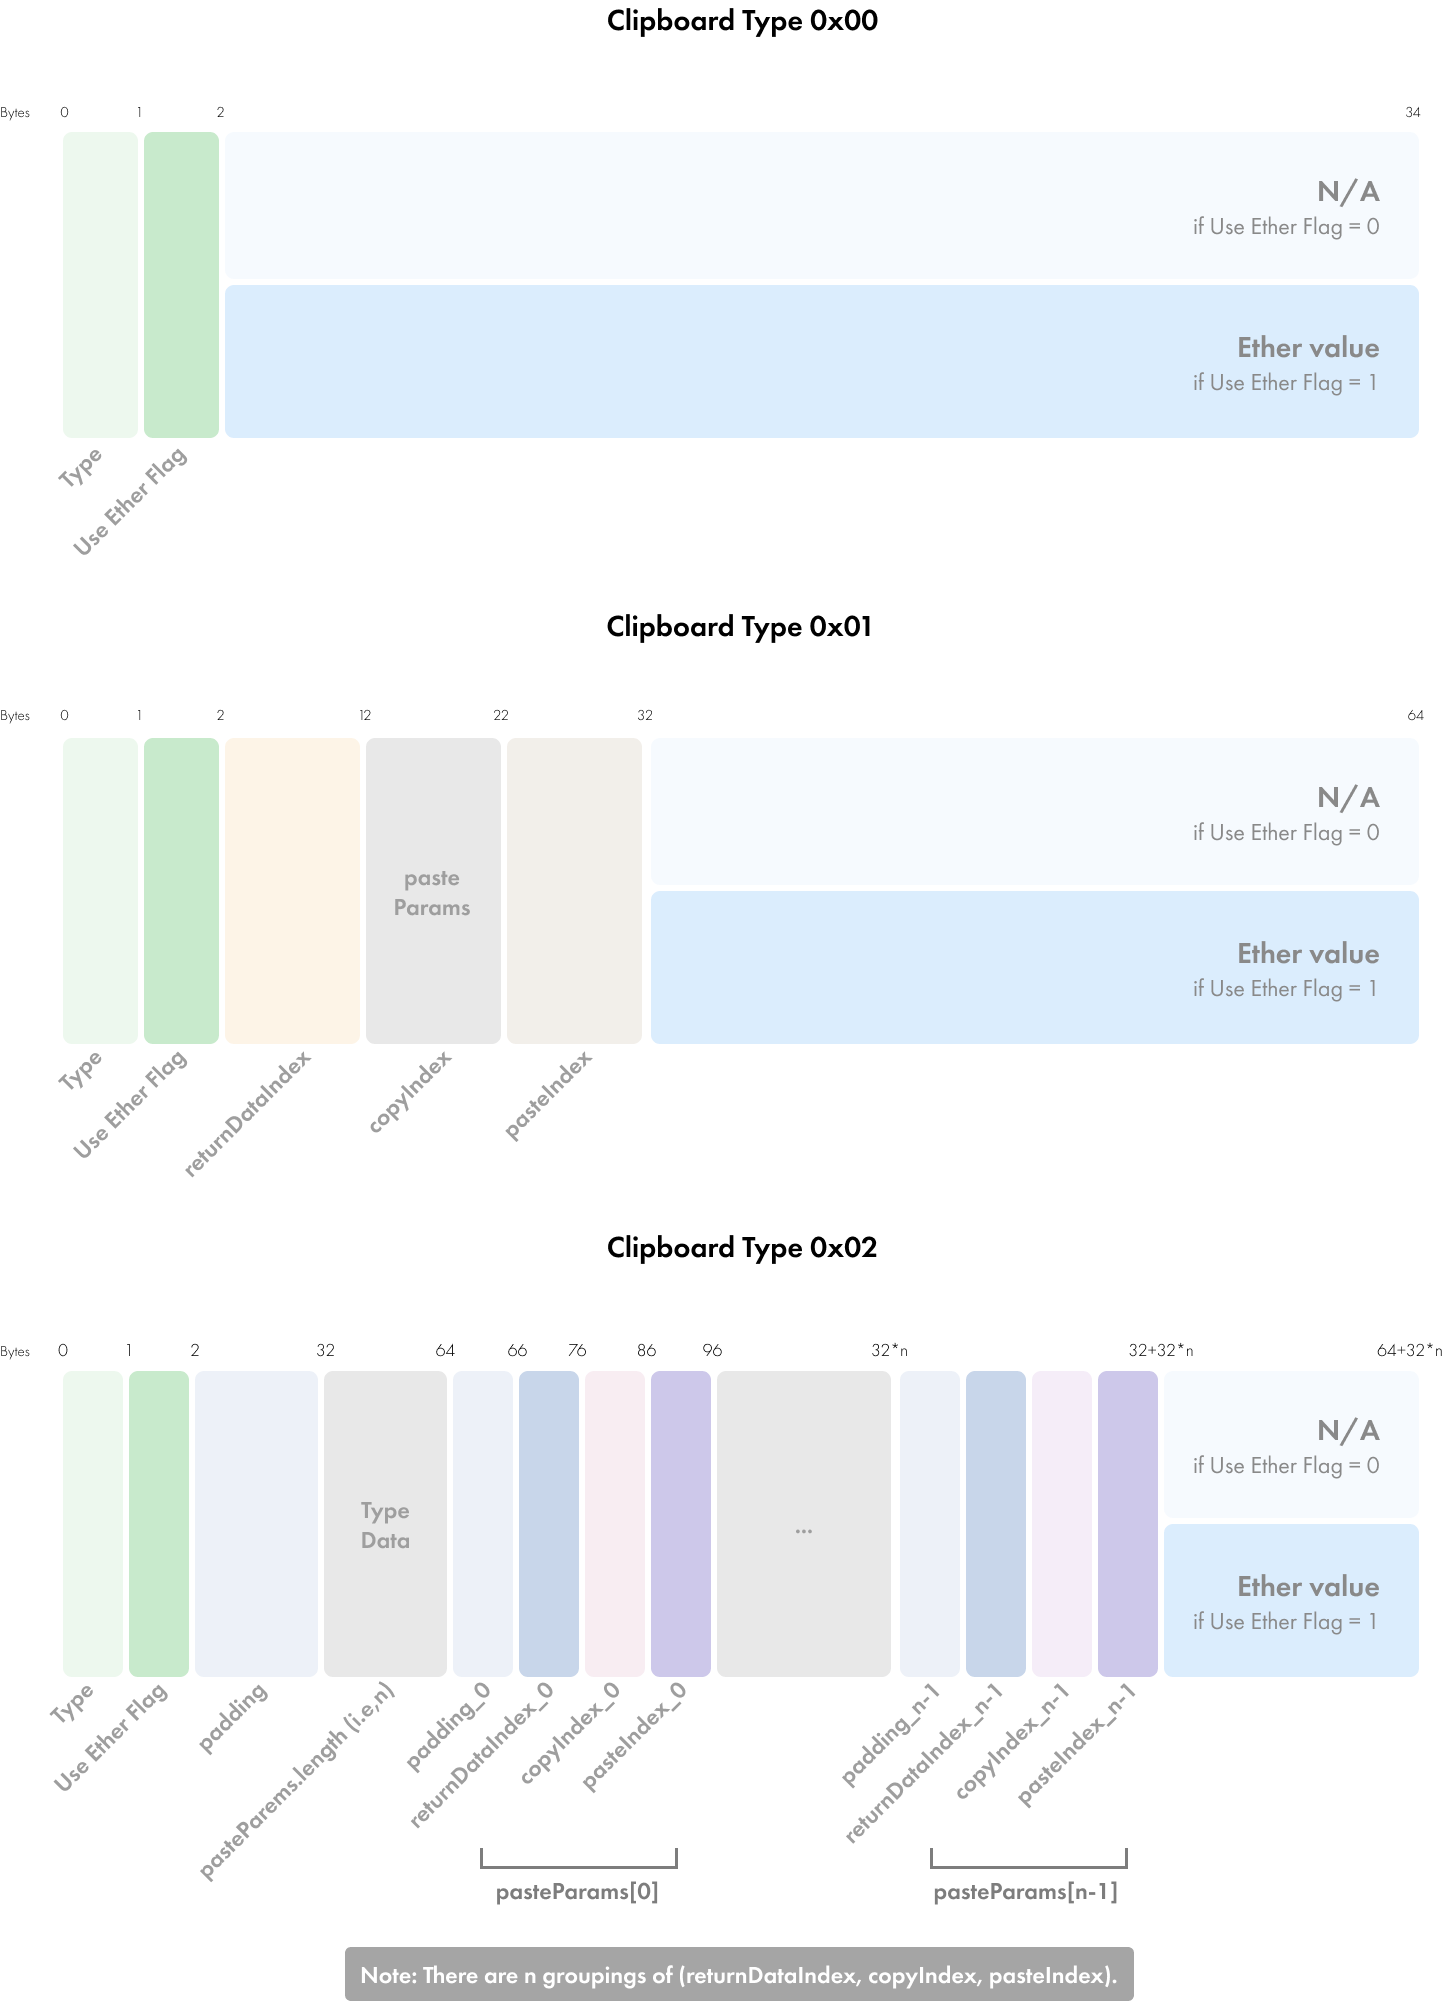
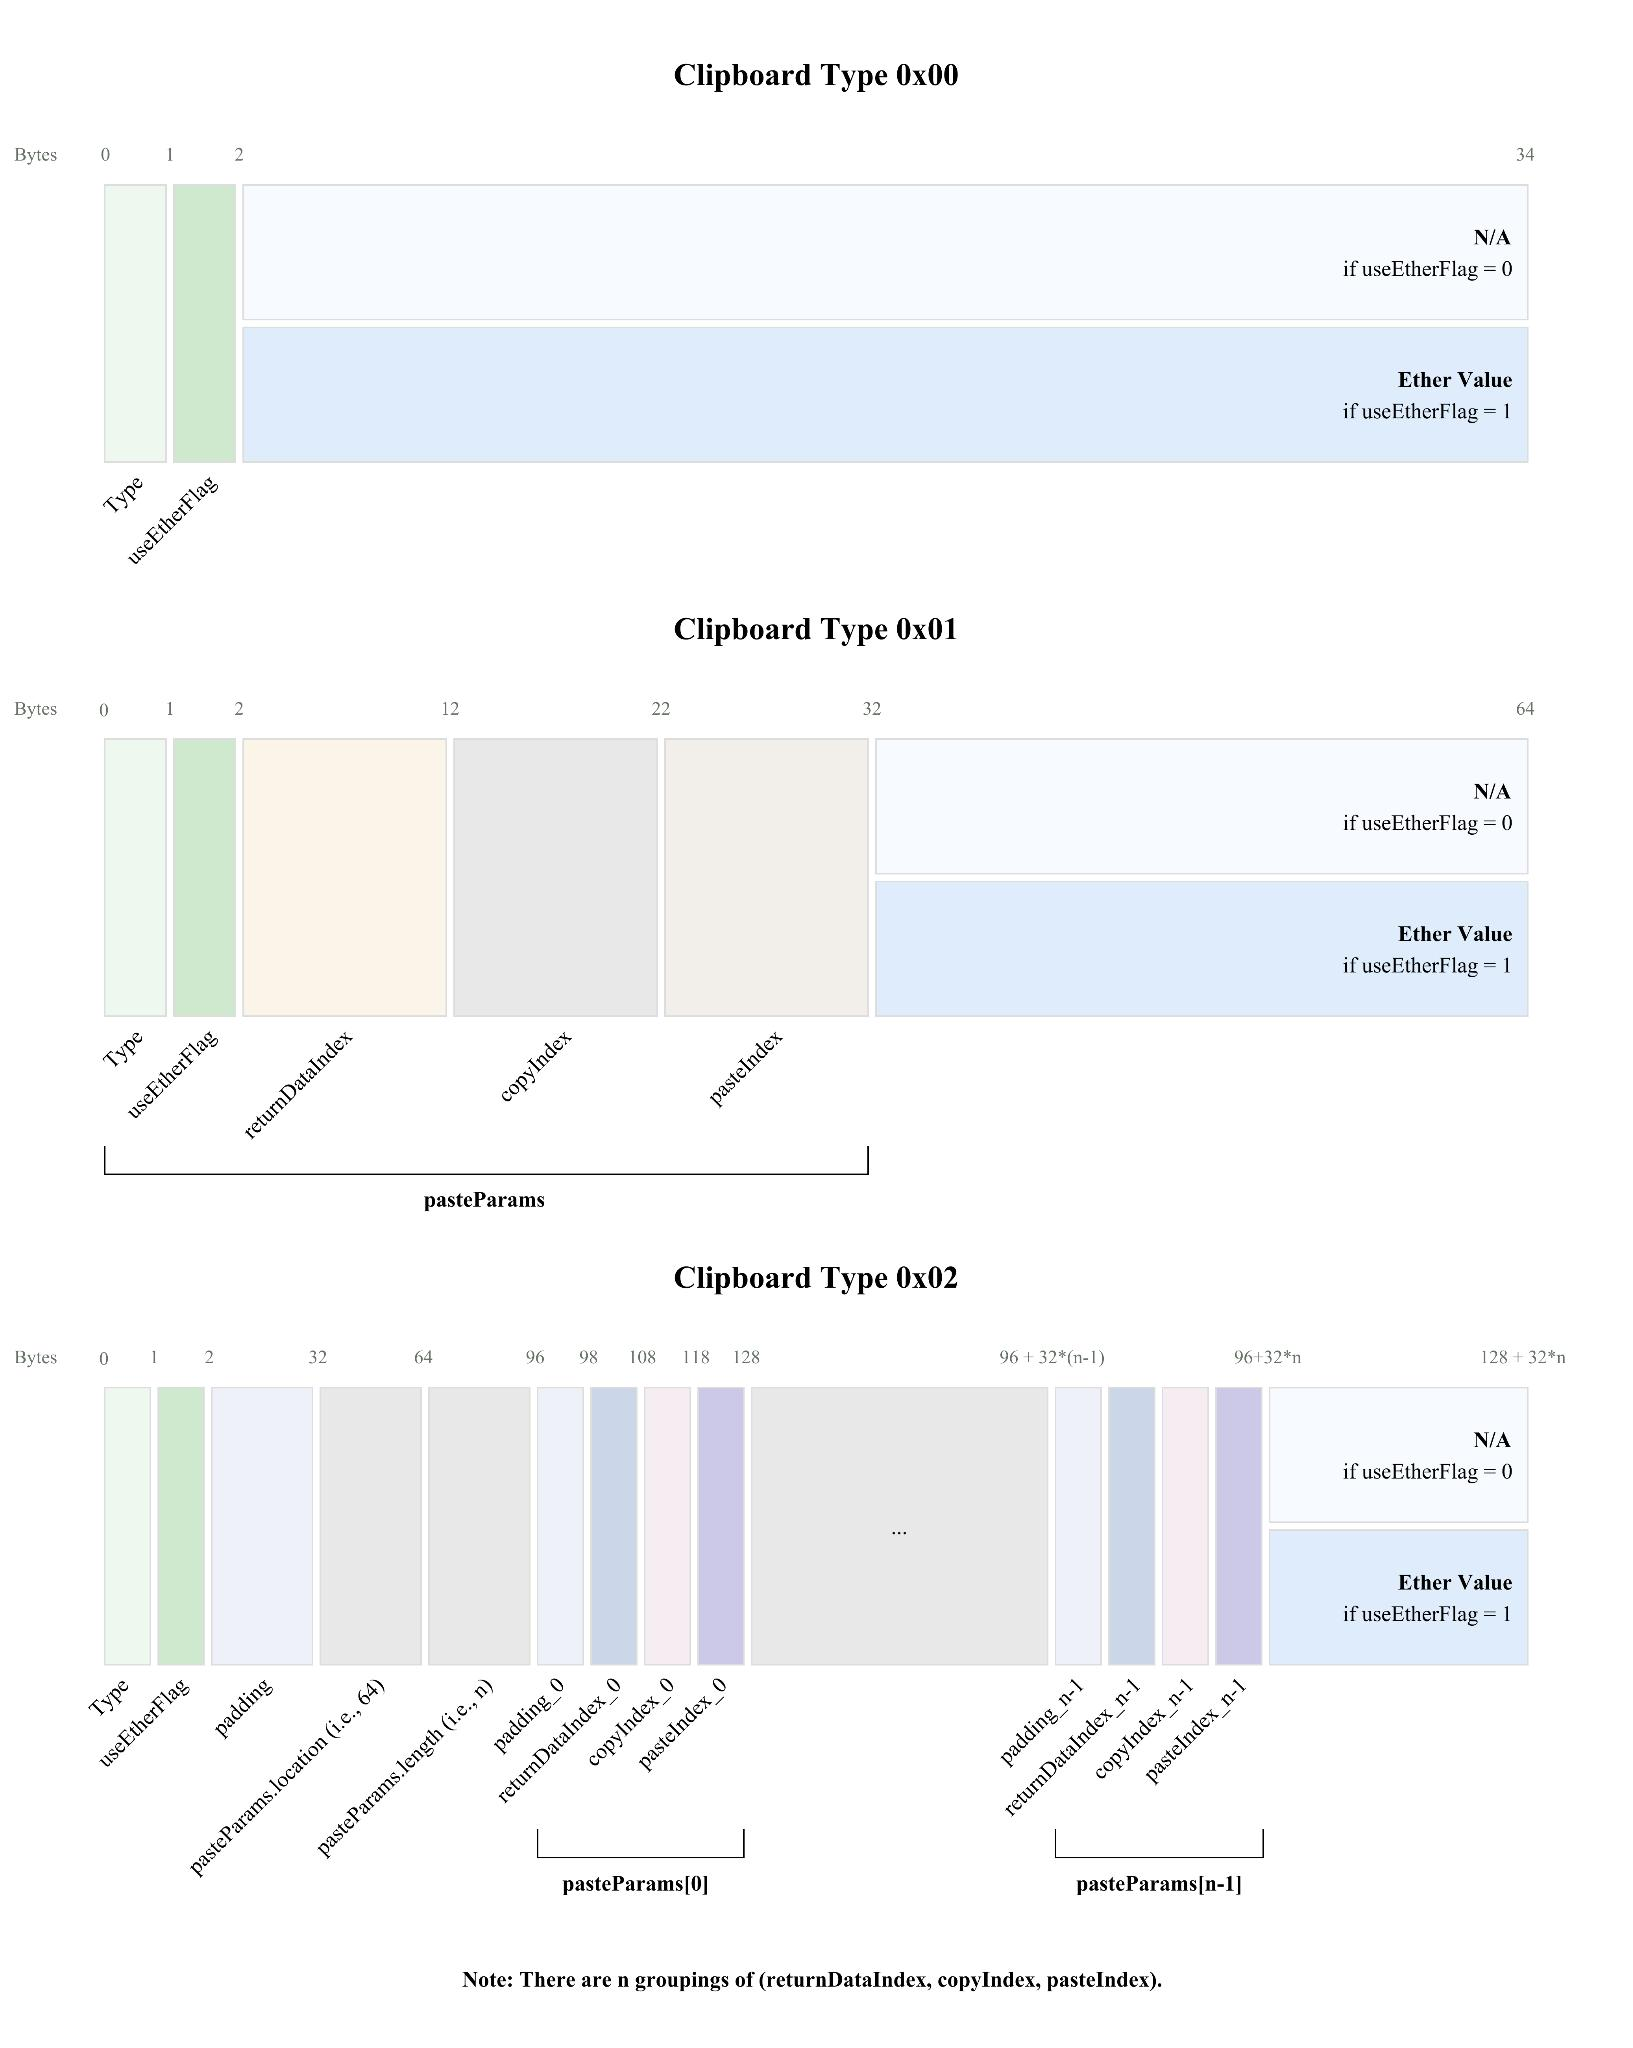
v1.0.5

diff --git a/main.tex b/main.tex
@@ -180,10 +180,10 @@
         \footnotesize{Published:} \normalsize{November 16, 2022}
         
         \vspace{-0.25cm}
-        \footnotesize{Modified:} \normalsize{November 17, 2023}
+        \footnotesize{Modified:} \normalsize{July 29, 2024}
         
         \vspace{-0.25cm}
-        \footnotesize{Whitepaper Version:} {\normalsize{1.0.4}}
+        \footnotesize{Whitepaper Version:} {\normalsize{1.0.5}}
         
         \vspace{-0.25cm}
         \footnotesize{Code Version:} {\normalsize{1.0.1}}{\fref{github.com/BeanstalkFarms/Pipeline}}
@@ -359,7 +359,7 @@ The first byte of \term{Clipboard} defines its \code{Type}, which specifies the 
 \begin{itemize}
     \item \textbf{\code{0x00} - Basic function call:} no bytes are \term{Pasted} (\term{i.e.}, a static function call).
     \item \textbf{\code{0x01} - 1 \code{bytes32} \term{Pasting} operation:} 1 \code{bytes32} is \term{Pasted} from a previous \term{AdvancedPipeCall's} \code{returnData}. 1 \code{pasteParams} are the first 32 bytes of the \term{Clipboard}.
-    \item \textbf{\code{0x02} - n \code{bytes32} \term{Pasting} operations:} n \code{bytes32} are \term{Pasted} from previous \term{AdvancedPipeCalls'} \code{returnData}. Bytes 3 through 31 are left empty. Bytes 32 through 32 * (n + 2) are a \code{bytes32[]}, where each \code{bytes32} are the \code{pasteParams} for a given byte \term{Paste} operation.
+    \item \textbf{\code{0x02} - n \code{bytes32} \term{Pasting} operations:} n \code{bytes32} are \term{Pasted} from previous \term{AdvancedPipeCalls'} \code{returnData}. Bytes 2 through 31 are left empty, bytes 32 through 63 contain \code{pasteParams.location} and bytes 64 through 95 contain \code{pasteParams.length}. Bytes 96 through 96 + 32 * n are a \code{bytes32[]}, where each \code{bytes32} are the \code{pasteParams} for a given byte \term{Paste} operation.
 \end{itemize}
 
 \subsection{Ether Usage}
@@ -380,9 +380,12 @@ The second byte of \term{Clipboard} defines the \code{Use Ether Flag}, which spe
     \item \code{pasteIndex} - bytes 22 - 31 specify the byte index of where to \term{Paste} onto the \code{callData} of the next \term{AdvancedPipeCall} (\term{e.g.}, \code{0x0000000024} \term{Pastes} onto the 0th parameter of the next \term{AdvancedPipeCall's} \code{callData}, \code{0x0000000044} \term{Pastes} onto the 1st parameter, etc.). 
 \end{itemize}
 
+\newpage
+
 \begin{figure}[h!]
     \centering
-    \includegraphics[scale=.89]{Figure2}
+    \hspace*{-8mm} 
+    \includegraphics[scale=.29]{Figure2}
     % \vspace*{-5mm}
     \caption{Clipboard}
     \label{fig 2}

diff --git a/appendix/Version-History.tex b/appendix/Version-History.tex
@@ -36,6 +36,10 @@ The following is a complete version history of this whitepaper. Unless otherwise
         \item Corrected a typo in the second paragraph of \hyperlink{section.6}{Section 6}.
         \item Changed Whitepaper to whitepaper in the intro to the Glossary.
     \end{itemize}
+    \item \href{https://github.com/BeanstalkFarms/Pipeline-Whitepaper/blob/master/version-history/pipeline1_0_5.pdf}{1.0.5} (July 29, 2024)
+    \begin{itemize}
+        \item Updated the fourth paragraph of \hyperlink{subsection.5.1}{Section 5.1} and \hyperref[fig 2]{Figure 2} to reflect that in a \code{Type} \code{0x02} \term{Clipboard}, bytes 32 through 63 contain \code{pasteParams.location}.
+    \end{itemize}
     
 \end{itemize}
 \end{document}
